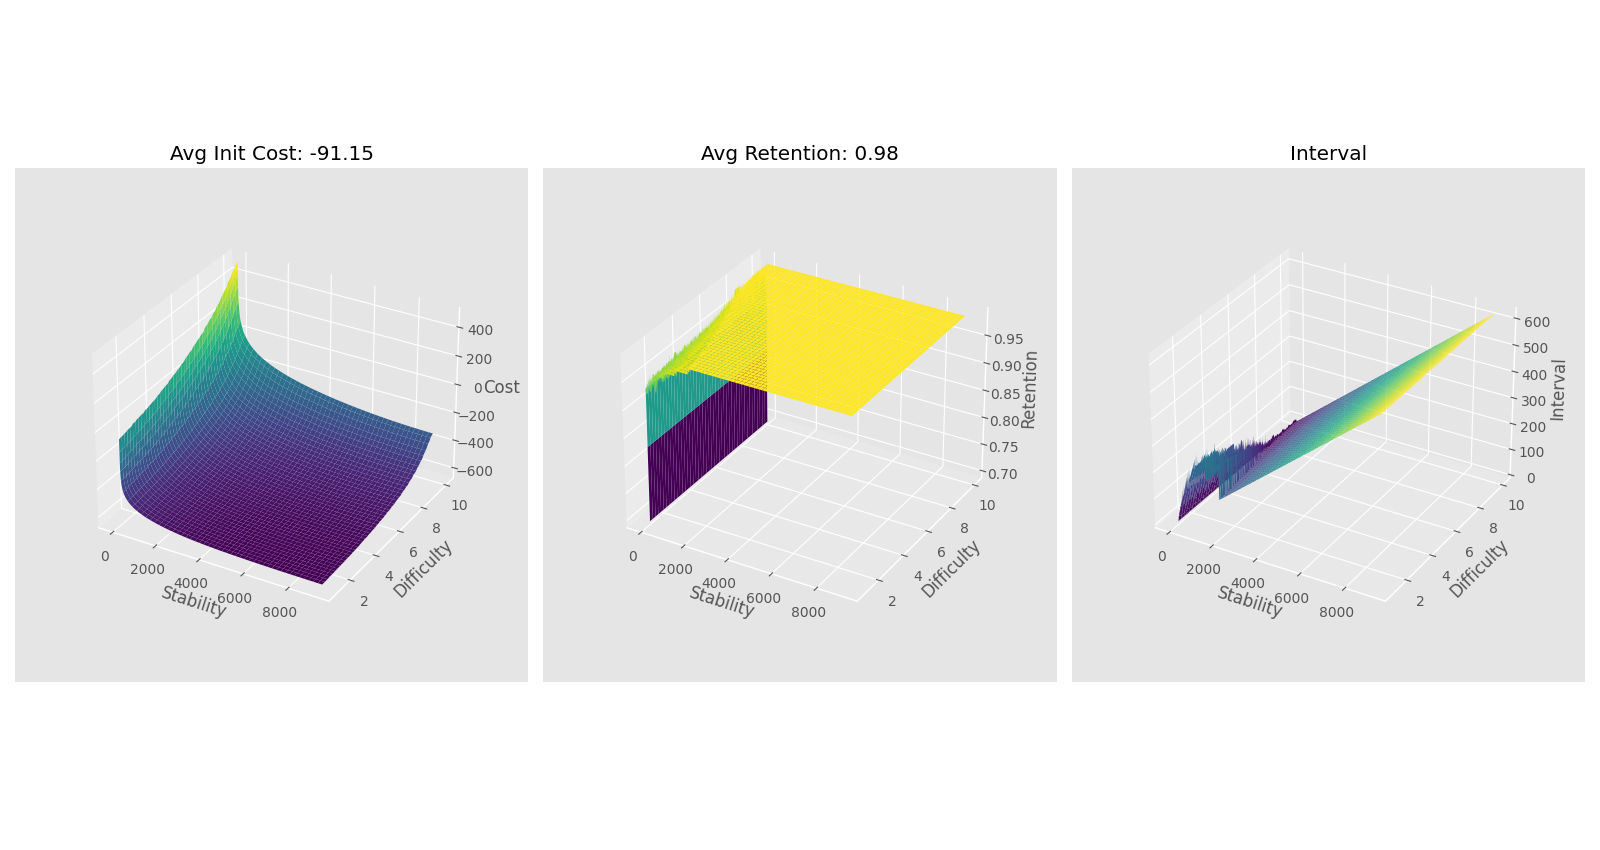
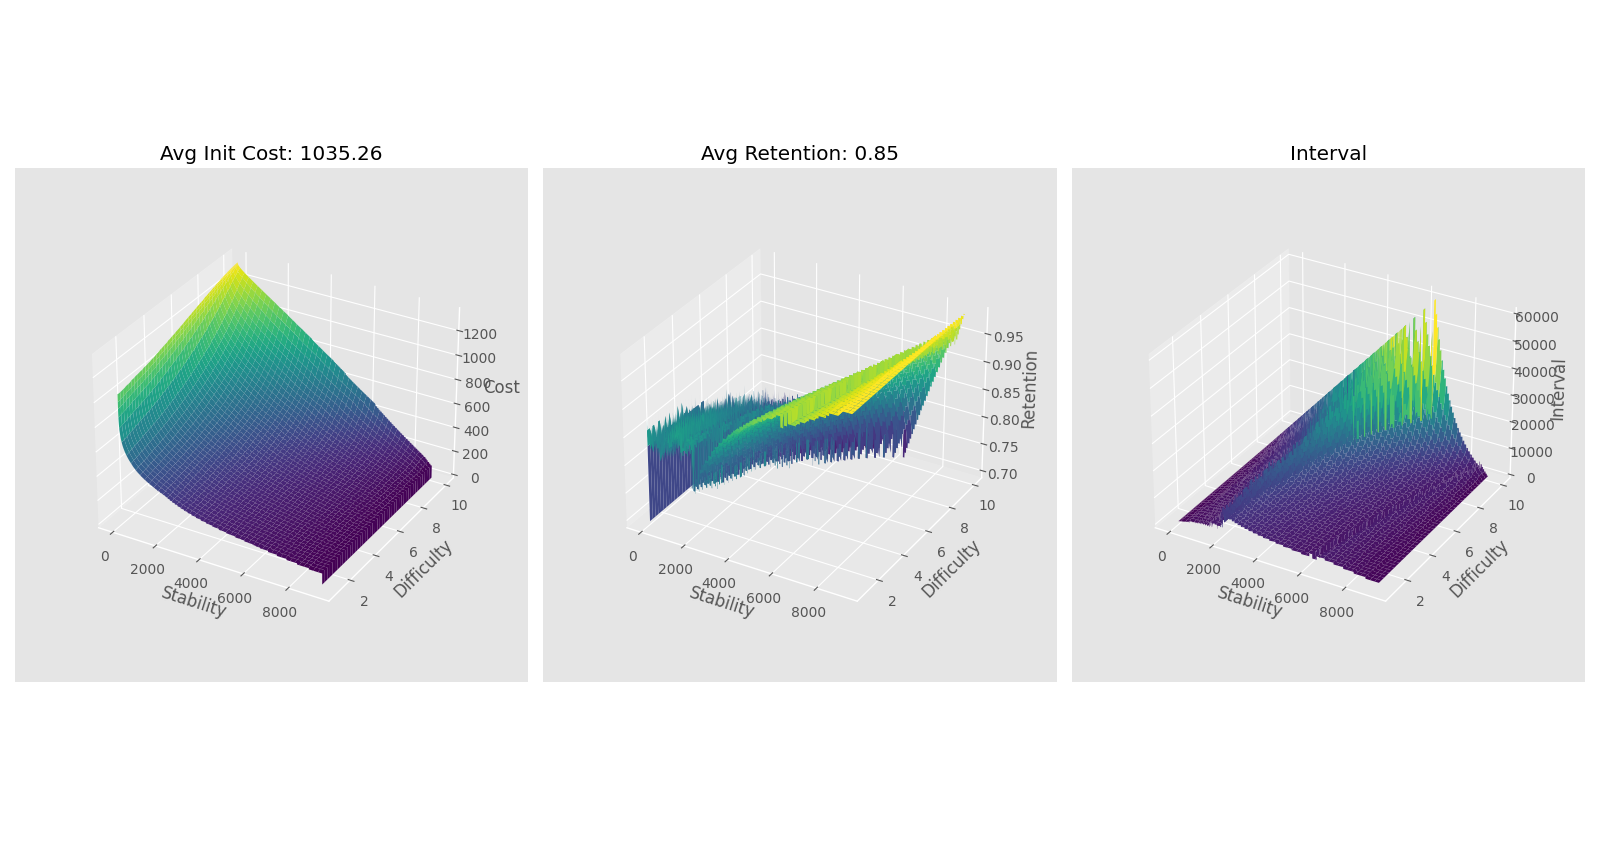
remove s_max from power_forgetting_curve

diff --git a/simulator.py b/simulator.py
@@ -5,14 +5,14 @@ from tqdm import trange
 import inspect
 
 
-def power_forgetting_curve(t, s, decay, s_max=math.inf):
+def power_forgetting_curve(t, s, decay):
     factor = 0.9 ** (1.0 / decay) - 1.0
-    return np.where(s > s_max, 1, (1 + factor * t / s) ** decay)
+    return (1 + factor * t / s) ** decay
 
 
-def power_forgetting_curve_torch(t, s, decay, s_max=math.inf):
+def power_forgetting_curve_torch(t, s, decay):
     factor = 0.9 ** (1.0 / decay) - 1.0
-    return torch.where(s > s_max, 1, (1 + factor * t / s) ** decay)
+    return (1 + factor * t / s) ** decay
 
 
 def next_interval(s, r, decay):
@@ -189,7 +189,7 @@ def simulate(
         retrievability = torch.where(
             ~has_learned,
             retrievability,
-            power_forgetting_curve_torch(delta_t, stability, -w[20], s_max),
+            power_forgetting_curve_torch(delta_t, stability, -w[20]),
         )
         cost.zero_()
         need_review = due <= today
